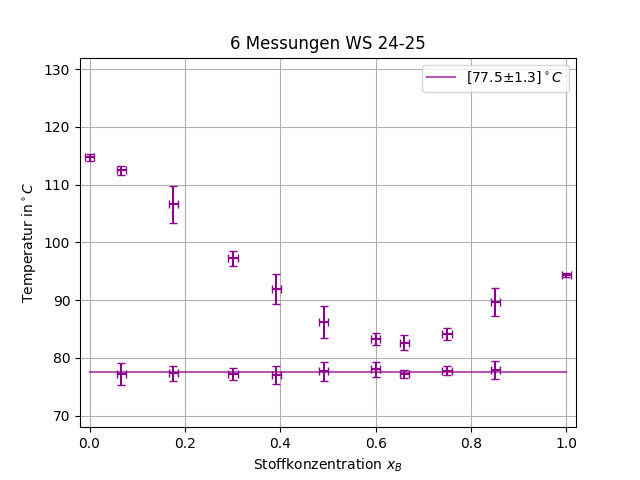
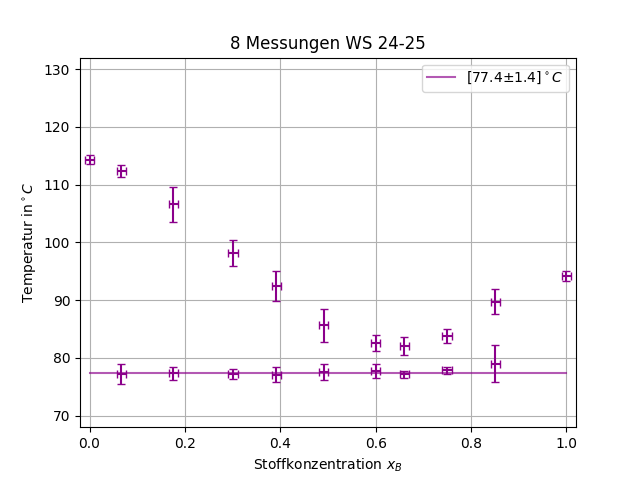
modified:   Daten/Ideal_WS_24-25.csv 	modified:   Daten/Mikroskop_WS_24-25.csv 	modified:   Daten/Wasser_WS_24-25.csv 	modified:   "L\303\266sungen.py" 	modified:   PNG/Mikroskop/Mikroskop_WS_24-25.png 	new file:   PNG/Mikroskop/WS 24-25/A1 Mikroskop.png 	new file:   PNG/Mikroskop/WS 24-25/B1 Mikros

diff --git a/Lösungen.py b/Lösungen.py
@@ -150,7 +150,6 @@ def Ideal(Gruppe):
 
 
 
-AlleAbfragen()
-# EineAbfrage('A4', 'Benzoe')
-# EineAbfrage('A4', 'Salicyl')
-# Ideal('A4')
+# AlleAbfragen()
+# EineAbfrage('B1', 'Salicyl')
+Ideal('B1')
